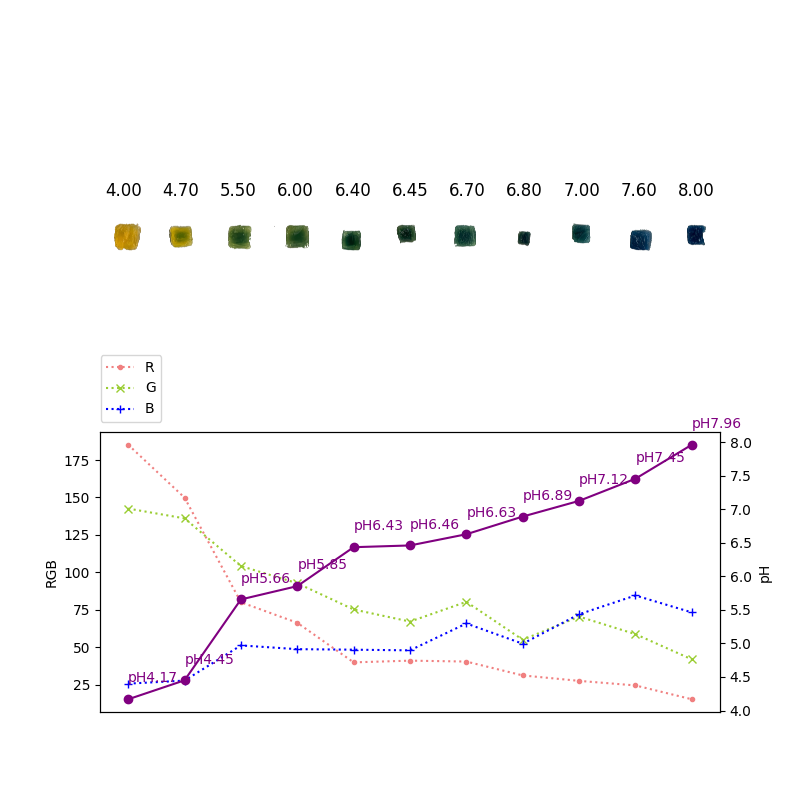
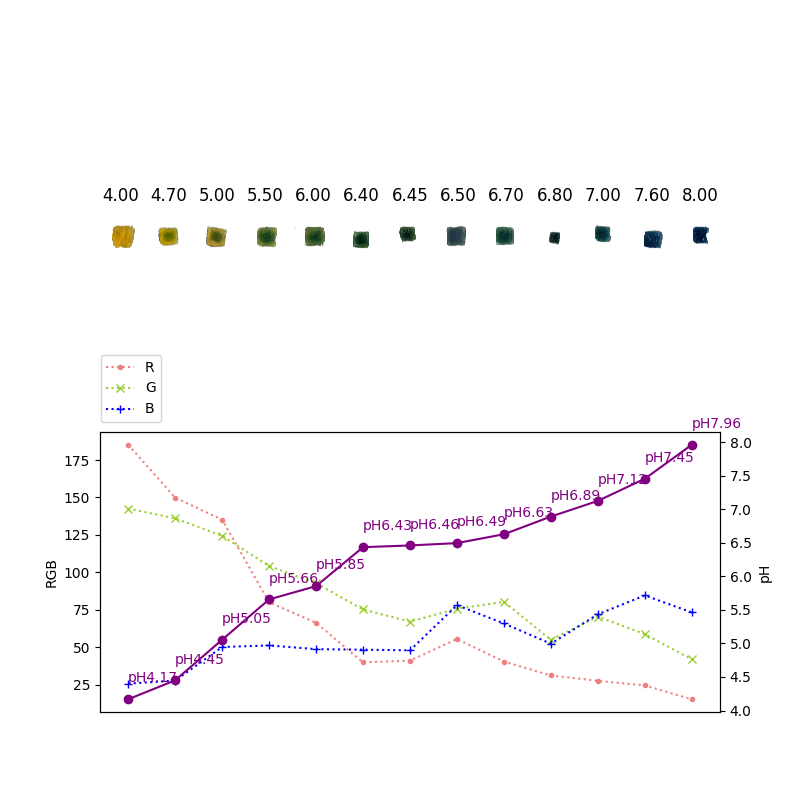
result

diff --git a/ph_measuring.py b/ph_measuring.py
@@ -129,7 +129,7 @@ def predict_pH(imgs):
   plt.show()
 
 def main():
-  image_dict = load_images('test data')
+  image_dict = load_images('all data')
   predict_pH(image_dict)
 
 
